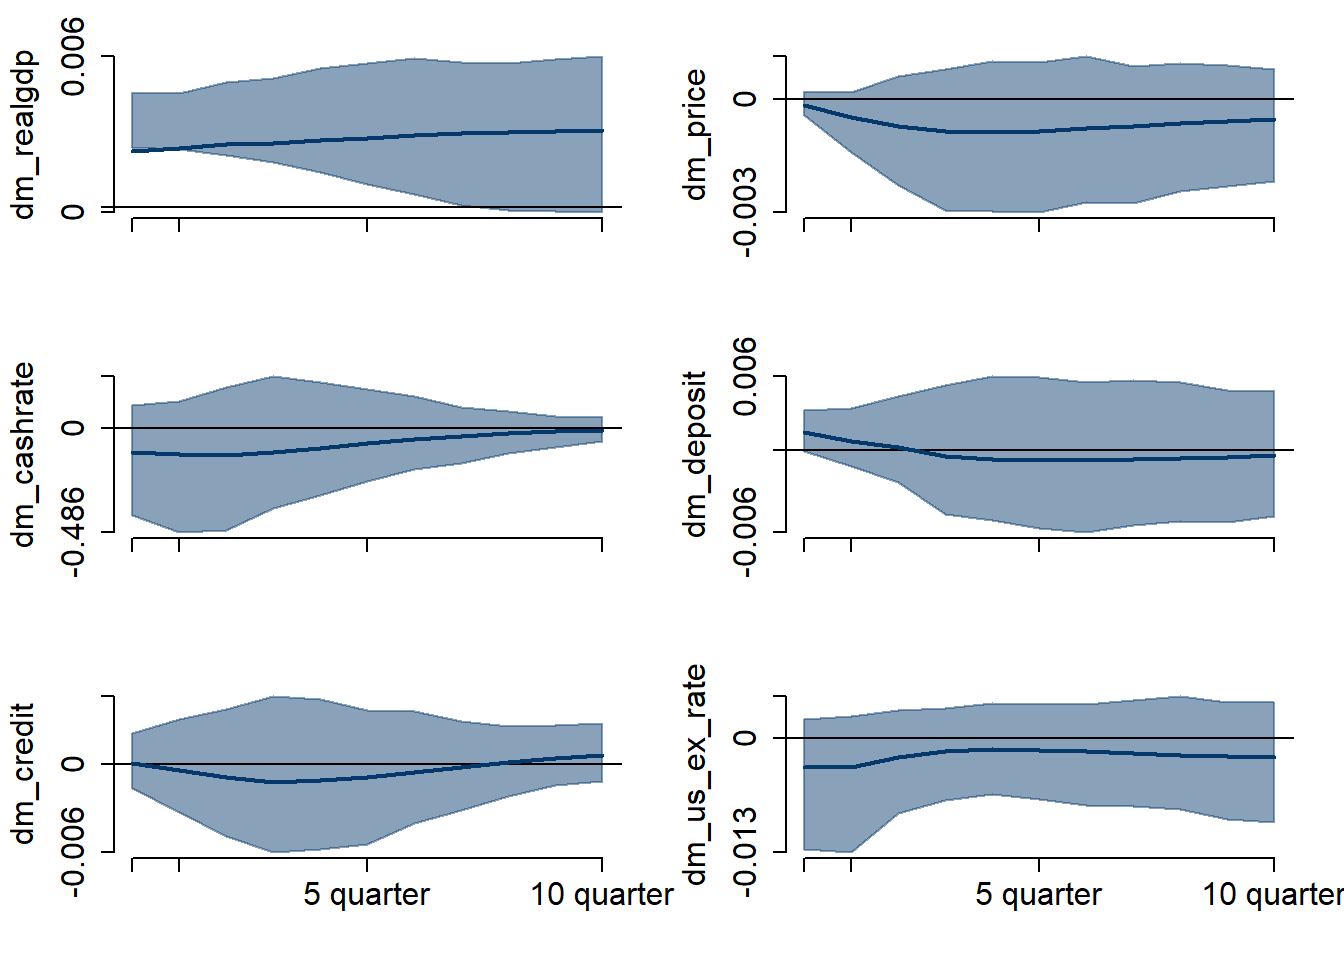
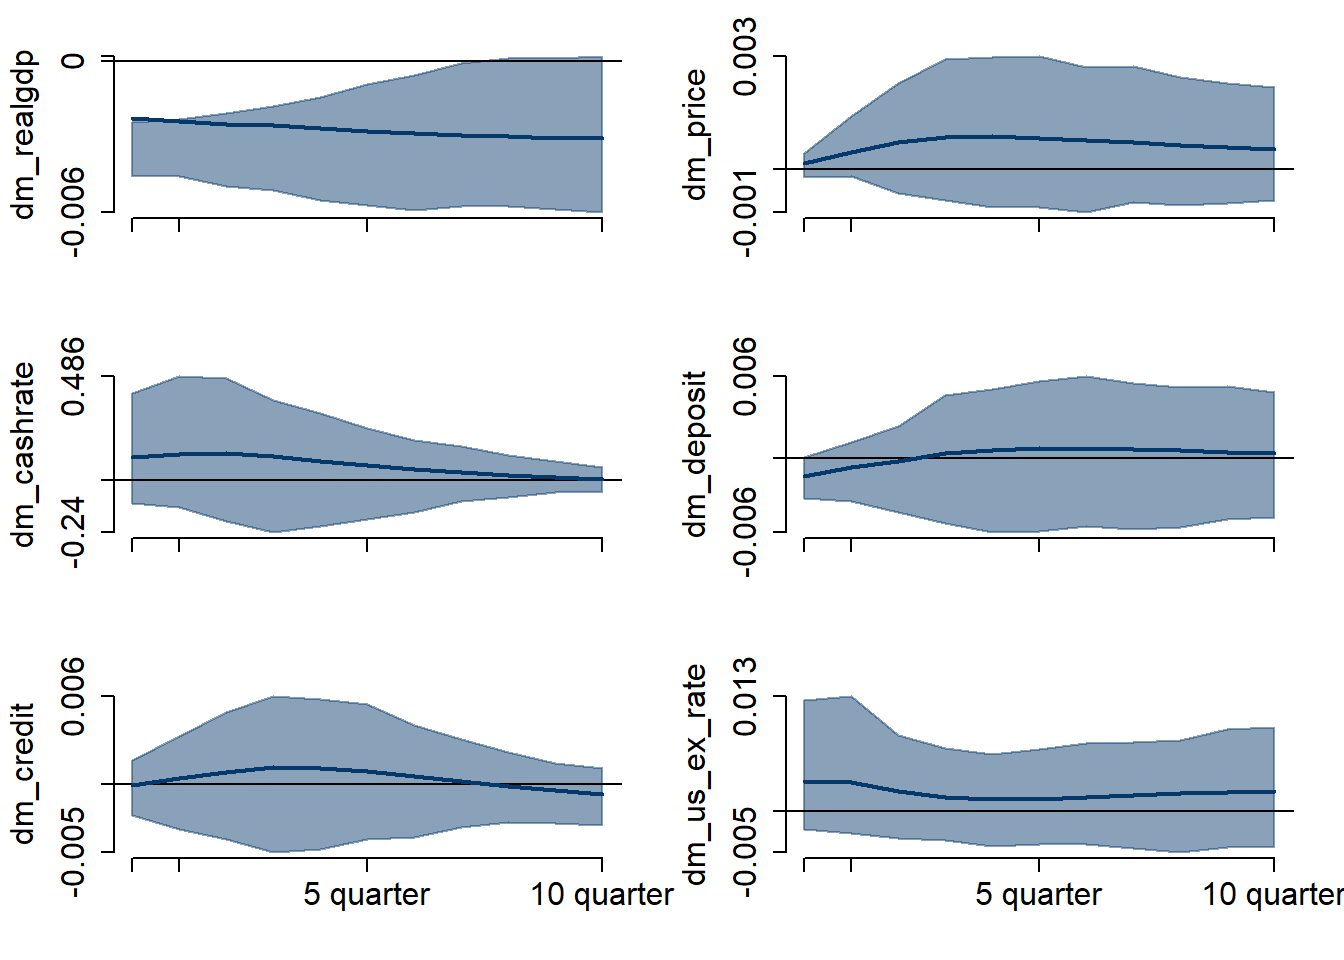
minor update
minor update

diff --git a/docs/index.html b/docs/index.html
@@ -653,7 +653,7 @@ B_0' &amp;=
 <span id="cb6-60"><a href="#cb6-60" aria-hidden="true" tabindex="-1"></a></span>
 <span id="cb6-61"><a href="#cb6-61" aria-hidden="true" tabindex="-1"></a>}</span></code><button title="Copy to Clipboard" class="code-copy-button"><i class="bi"></i></button></pre></div>
 </div>
-<p>The posterior <span class="math inline">\(B_0\)</span> matrix requires a normalization since it exhibits symmetric distribution round zero. We can additionally confirm this by looking at the IRF plots in Figure 7. Below is the normalization function for this.</p>
+<p>The posterior <span class="math inline">\(B_0\)</span> matrix requires a normalization since it exhibits symmetric distribution round zero. Below is the normalization function for this.</p>
 <div class="cell">
 <div class="sourceCode cell-code" id="cb7"><pre class="sourceCode r code-with-copy"><code class="sourceCode r"><span id="cb7-1"><a href="#cb7-1" aria-hidden="true" tabindex="-1"></a><span class="co"># initial setup</span></span>
 <span id="cb7-2"><a href="#cb7-2" aria-hidden="true" tabindex="-1"></a></span>
@@ -707,7 +707,7 @@ B_0' &amp;=
 <span id="cb7-50"><a href="#cb7-50" aria-hidden="true" tabindex="-1"></a><span class="co">#Obtain normalized B0</span></span>
 <span id="cb7-51"><a href="#cb7-51" aria-hidden="true" tabindex="-1"></a>t0<span class="ot">=</span>  <span class="fu">proc.time</span>()</span>
 <span id="cb7-52"><a href="#cb7-52" aria-hidden="true" tabindex="-1"></a>ttt<span class="ot">=</span><span class="dv">1</span></span>
-<span id="cb7-53"><a href="#cb7-53" aria-hidden="true" tabindex="-1"></a>B0.posterior.hat.inv <span class="ot">=</span> <span class="sc">-</span><span class="fu">solve</span>(B0.posterior[,,<span class="dv">1</span>]) <span class="co"># does - reverse the IRF?</span></span>
+<span id="cb7-53"><a href="#cb7-53" aria-hidden="true" tabindex="-1"></a>B0.posterior.hat.inv <span class="ot">=</span> <span class="fu">solve</span>(B0.posterior[,,<span class="dv">1</span>]) <span class="co"># does - reverse the IRF?</span></span>
 <span id="cb7-54"><a href="#cb7-54" aria-hidden="true" tabindex="-1"></a><span class="cf">for</span> (s <span class="cf">in</span> <span class="dv">1</span><span class="sc">:</span>S){</span>
 <span id="cb7-55"><a href="#cb7-55" aria-hidden="true" tabindex="-1"></a>Sigma.posterior.inv <span class="ot">=</span> <span class="fu">solve</span>(Sigma.posterior[,,s])</span>
 <span id="cb7-56"><a href="#cb7-56" aria-hidden="true" tabindex="-1"></a>B0.posterior.tmp    <span class="ot">=</span> B0.posterior[,,s]</span>
@@ -719,7 +719,7 @@ B_0' &amp;=
 <span id="cb7-62"><a href="#cb7-62" aria-hidden="true" tabindex="-1"></a>(t1<span class="sc">-</span>t0)[<span class="dv">3</span>]<span class="sc">/</span><span class="dv">60</span> <span class="co"># Time of computations in minutes</span></span></code><button title="Copy to Clipboard" class="code-copy-button"><i class="bi"></i></button></pre></div>
 <div class="cell-output cell-output-stdout">
 <pre><code> elapsed 
-3.180167 </code></pre>
+3.444167 </code></pre>
 </div>
 </div>
 </section>
@@ -731,8 +731,8 @@ B_0' &amp;=
 <section id="section-5" class="level1">
 <h1></h1>
 <p>Below is IRF with long-run restiction and normalization.Though the point estimations deviate from zero but most of the confident intervals of variables include zero except real GDP which decrease but it gets to zero statistically as time proceeds.</p>
-<section id="figure-9.-irf-to-cash-rate-shock-with-long-run-restiction-and-normalization" class="level6" style="text-align: center;">
-<h6 style="text-align: center;" class="anchored" data-anchor-id="figure-9.-irf-to-cash-rate-shock-with-long-run-restiction-and-normalization">Figure 9. IRF to cash rate shock with long-run restiction and normalization</h6>
+<section id="figure-7.-irf-to-cash-rate-shock-with-long-run-restiction-and-normalization" class="level6" style="text-align: center;">
+<h6 style="text-align: center;" class="anchored" data-anchor-id="figure-7.-irf-to-cash-rate-shock-with-long-run-restiction-and-normalization">Figure 7. IRF to cash rate shock with long-run restiction and normalization</h6>
 <div class="cell">
 <div class="cell-output-display">
 <p><img src="index_files/figure-html/irf-au-mps plots3_normalized-1.png" class="img-fluid" width="672"></p>
@@ -767,16 +767,16 @@ ex_t \\
 <section id="empirical-investigation-for-model-without-deposit-case-3" class="level2">
 <h2 class="anchored" data-anchor-id="empirical-investigation-for-model-without-deposit-case-3">Empirical Investigation for model without deposit (case 3)</h2>
 <p>As we see the figure of response function of banks credit to cash rate shock, banks credit decreases less upon a positive cash rate shock in the model without banks’ deposit. Another interesting observation is that GDP also decreases less under this model than it did in baseline model in which deposit is included. In other words, GDP, a real economy variable, and credit, a financial economy variable are both responding more sensitively to monetary policy shock when deposit is included in the model.</p>
-<section id="figure-10.-irf-to-cash-rate-shock-for-kappa_1-1-plots" class="level6" style="text-align: center;">
-<h6 style="text-align: center;" class="anchored" data-anchor-id="figure-10.-irf-to-cash-rate-shock-for-kappa_1-1-plots">Figure 10. IRF to cash rate shock for <span class="math inline">\(\kappa_1\)</span> = 1 plots</h6>
+<section id="figure-8.-irf-to-cash-rate-shock-for-kappa_1-1-plots" class="level6" style="text-align: center;">
+<h6 style="text-align: center;" class="anchored" data-anchor-id="figure-8.-irf-to-cash-rate-shock-for-kappa_1-1-plots">Figure 8. IRF to cash rate shock for <span class="math inline">\(\kappa_1\)</span> = 1 plots</h6>
 <div class="cell">
 <div class="cell-output-display">
 <p><img src="index_files/figure-html/irf-au-mps plots2-1.png" class="img-fluid" width="672"></p>
 </div>
 </div>
 </section>
-<section id="figure-11.-fevd-of-banks-credit-plots" class="level6" style="text-align: center;">
-<h6 style="text-align: center;" class="anchored" data-anchor-id="figure-11.-fevd-of-banks-credit-plots">Figure 11. FEVD of banks’ credit plots</h6>
+<section id="figure-9.-fevd-of-banks-credit-plots" class="level6" style="text-align: center;">
+<h6 style="text-align: center;" class="anchored" data-anchor-id="figure-9.-fevd-of-banks-credit-plots">Figure 9. FEVD of banks’ credit plots</h6>
 <div class="cell">
 <div class="cell-output-display">
 <p><img src="index_files/figure-html/fevd-credit plots2-1.png" class="img-fluid" width="672"></p>
@@ -1197,8 +1197,8 @@ P(\alpha,\Sigma|Y,X,h) = MN (\bar{\alpha},\bar{V},\bar{S},\bar{\nu})
 <section id="empirical-investigation-for-extended-model" class="level2">
 <h2 class="anchored" data-anchor-id="empirical-investigation-for-extended-model">Empirical Investigation for extended model</h2>
 <p>Now I present the Impulse Response Functions (IRFs) for the extended model below. As we see, the point estimates deviate from zero, and the directions are in accordance with the baseline model. However, except the cash rate, variables do not meaningfully diverge from zero in statistical sense.</p>
-<section id="figure-12.-irf-to-cash-rate-shock-for-kappa_1-1-plots" class="level6" style="text-align: center;">
-<h6 style="text-align: center;" class="anchored" data-anchor-id="figure-12.-irf-to-cash-rate-shock-for-kappa_1-1-plots">Figure 12. IRF to cash rate shock for <span class="math inline">\(\kappa_1\)</span> = 1 plots</h6>
+<section id="figure-10.-irf-to-cash-rate-shock-for-kappa_1-1-plots" class="level6" style="text-align: center;">
+<h6 style="text-align: center;" class="anchored" data-anchor-id="figure-10.-irf-to-cash-rate-shock-for-kappa_1-1-plots">Figure 10. IRF to cash rate shock for <span class="math inline">\(\kappa_1\)</span> = 1 plots</h6>
 <div class="cell">
 <div class="cell-output-display">
 <p><img src="index_files/figure-html/irf-au-mps plots for extension 2-1.png" class="img-fluid" width="672"></p>
